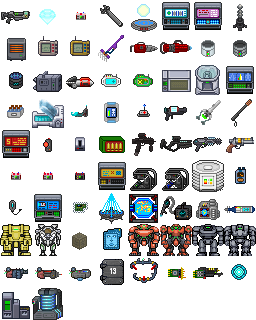
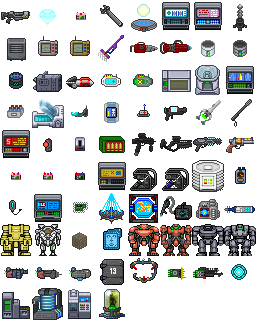
Две технологии про которые я забыл

Changed region(s): [[0.25, 0.9062, 0.5, 1.0]]

diff --git a/nano/css/shared.css b/nano/css/shared.css
@@ -716,6 +716,8 @@ th.misc {
 
 .sciTechTreeIcon.icon-shield { background-position: 0px -288px; }
 .sciTechTreeIcon.icon-fusion { background-position: -32px -288px; }
+.sciTechTreeIcon.icon-chemdisp { background-position: -64px -288px; }
+.sciTechTreeIcon.icon-cloning { background-position: -96px -288px; }
 
 .sciMenuButton {
     width: 300px;
